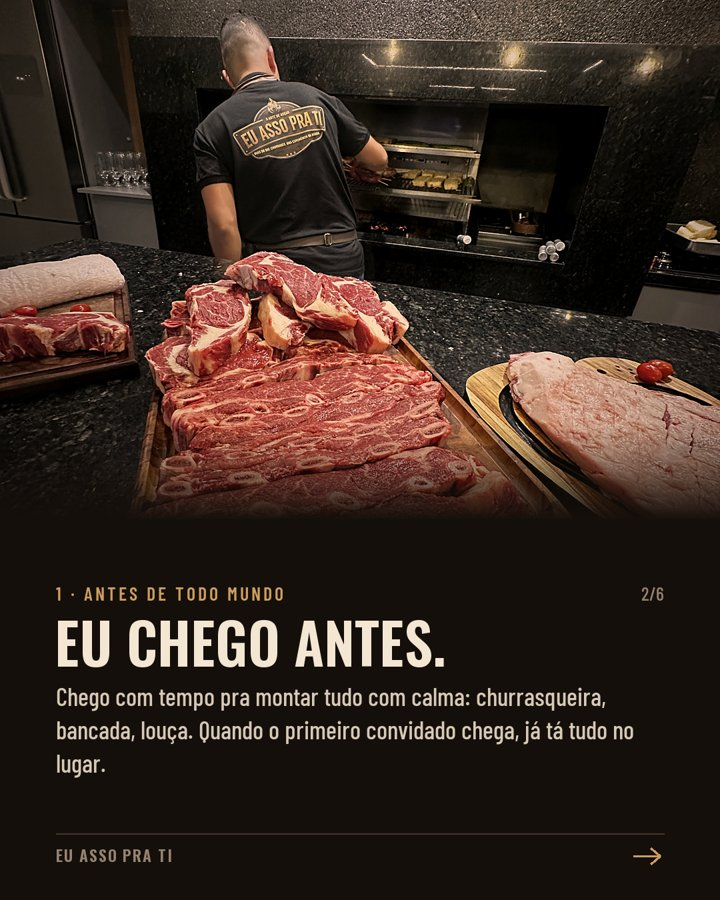
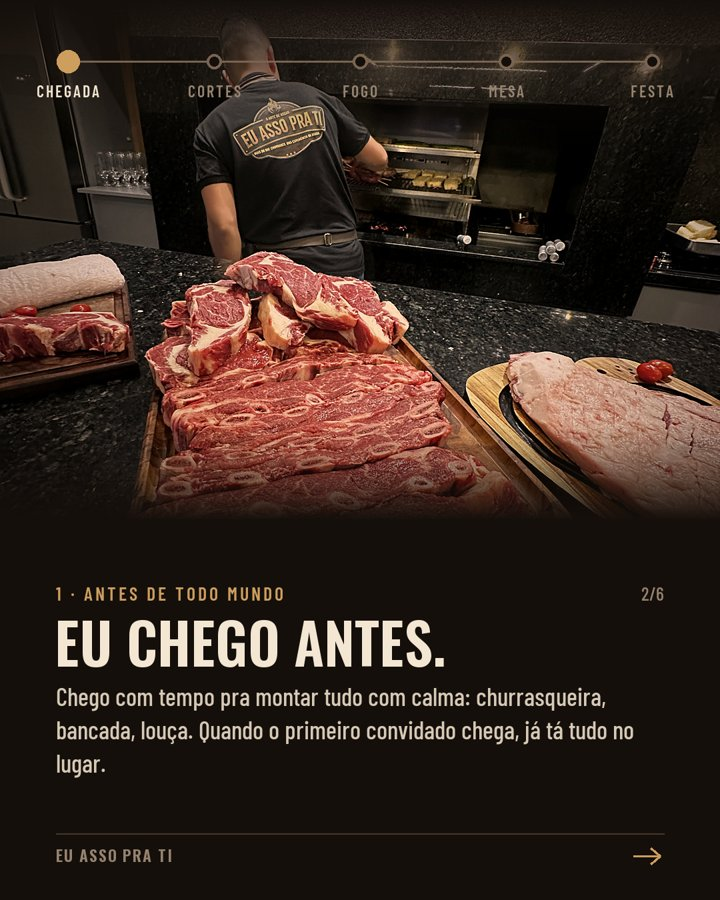
Semana de 3/11: versão com linha do tempo, votação e comentários

Changed region(s): [[0.1833, 0.0, 1.0, 0.1556], [0.0306, 0.0, 0.1528, 0.1244]]

diff --git a/calendario/index.html b/calendario/index.html
@@ -11,7 +11,7 @@
 --display:"Oswald","Arial Narrow",sans-serif;--label:"Barlow Condensed","Arial Narrow",sans-serif;--text:"Barlow",system-ui,sans-serif;color-scheme:dark}
 *{box-sizing:border-box}
 body{margin:0;background:var(--bg);color:var(--body);font:400 1.0625rem/1.6 var(--text)}
-.hero{position:relative;min-height:min(78vh,620px);display:grid;align-items:end;background:#000 url(img/p14-01.jpg?v=1793399169) center 40%/cover}
+.hero{position:relative;min-height:min(78vh,620px);display:grid;align-items:end;background:#000 url(img/p14-01.jpg?v=1793399696) center 40%/cover}
 .hero::after{content:"";position:absolute;inset:0;background:linear-gradient(180deg,rgba(21,15,11,.2) 0%,rgba(21,15,11,.55) 45%,var(--bg) 100%)}
 .hero .in{position:relative;z-index:1;max-width:760px;margin:0 auto;width:100%;padding:0 20px 36px}
 h1,h2{font-family:var(--display);font-weight:600;text-transform:uppercase;color:var(--fg);line-height:1.05;margin:0;text-wrap:balance}
@@ -86,14 +86,14 @@ footer{font:500 .9rem var(--label);color:var(--muted);letter-spacing:.06em;borde
 <section>
   <div class="post-head"><p class="k" style="margin:0">Terça 3/11 · 12h</p><span class="tag">Aguardando pitacos</span></div>
   <h2>Post 13: quem provou, recomenda</h2>
-  <p>Prova social no dia em que os anúncios começam. Os comentários reais da galera: a formatura, o aniversário de 1 ano do último sábado e quem provou o choripan de focaccia. Fecha contigo sorrindo e chamando pro WhatsApp.</p>
+  <p>Prova social no dia em que os anúncios começam. Os comentários reais da galera, no visual do Instagram: a formatura, o aniversário de 1 ano do último sábado e quem provou o choripan de focaccia. Fecha contigo sorrindo e chamando pro WhatsApp.</p>
   <div class="car" aria-label="Imagens do post 13">
-    <img src="img/p13-01.jpg?v=1793399169" alt="Capa: Quem provou, recomenda" loading="lazy">
-    <img src="img/p13-02.jpg?v=1793399169" alt="Formatura" loading="lazy">
-    <img src="img/p13-03.jpg?v=1793399169" alt="Aniversário de 1 ano" loading="lazy">
-    <img src="img/p13-04.jpg?v=1793399169" alt="A queridinha" loading="lazy">
-    <img src="img/p13-05.jpg?v=1793399169" alt="Sem palavras" loading="lazy">
-    <img src="img/p13-06.jpg?v=1793399169" alt="A próxima pode ser a tua" loading="lazy">
+    <img src="img/p13-01.jpg?v=1793399696" alt="Capa: Quem provou, recomenda" loading="lazy">
+    <img src="img/p13-02.jpg?v=1793399696" alt="Formatura" loading="lazy">
+    <img src="img/p13-03.jpg?v=1793399696" alt="Aniversário de 1 ano" loading="lazy">
+    <img src="img/p13-04.jpg?v=1793399696" alt="A queridinha" loading="lazy">
+    <img src="img/p13-05.jpg?v=1793399696" alt="Sem palavras" loading="lazy">
+    <img src="img/p13-06.jpg?v=1793399696" alt="A próxima pode ser a tua" loading="lazy">
   </div>
   <p class="hint">Arrasta para o lado para ver as 6 imagens.</p>
   <details><summary>Ver a legenda</summary><div class="cap">Quem provou, recomenda 🔥
@@ -116,14 +116,14 @@ Tem festa vindo aí? Me chama no WhatsApp pelo link da bio ou no (51) 99565-7817
 <section>
   <div class="post-head"><p class="k" style="margin:0">Quinta 5/11 · 12h</p><span class="tag">Aguardando pitacos</span></div>
   <h2>Post 14: como é o dia da tua festa</h2>
-  <p>O passo a passo do dia: tu chega antes, os cortes separados e temperados, o fogo, a carne servida quentinha na mesa e o cliente só aproveitando. Responde a dúvida de quem nunca contratou: "vai dar trabalho pra mim?".</p>
+  <p>O passo a passo do dia, com uma linha do tempo no topo de cada card: tu chega antes, os cortes separados e temperados, o fogo, a carne servida quentinha na mesa e o cliente só aproveitando. Responde a dúvida de quem nunca contratou: "vai dar trabalho pra mim?".</p>
   <div class="car" aria-label="Imagens do post 14">
-    <img src="img/p14-01.jpg?v=1793399169" alt="Capa: Como é o dia da tua festa" loading="lazy">
-    <img src="img/p14-02.jpg?v=1793399169" alt="Eu chego antes" loading="lazy">
-    <img src="img/p14-03.jpg?v=1793399169" alt="Separados e temperados na hora" loading="lazy">
-    <img src="img/p14-04.jpg?v=1793399169" alt="O fogo no ponto certo" loading="lazy">
-    <img src="img/p14-05.jpg?v=1793399169" alt="Servido quentinho pra galera" loading="lazy">
-    <img src="img/p14-06.jpg?v=1793399169" alt="Tu só aproveita a festa" loading="lazy">
+    <img src="img/p14-01.jpg?v=1793399696" alt="Capa: Como é o dia da tua festa" loading="lazy">
+    <img src="img/p14-02.jpg?v=1793399696" alt="Eu chego antes" loading="lazy">
+    <img src="img/p14-03.jpg?v=1793399696" alt="Separados e temperados na hora" loading="lazy">
+    <img src="img/p14-04.jpg?v=1793399696" alt="O fogo no ponto certo" loading="lazy">
+    <img src="img/p14-05.jpg?v=1793399696" alt="Servido quentinho pra galera" loading="lazy">
+    <img src="img/p14-06.jpg?v=1793399696" alt="Tu só aproveita a festa" loading="lazy">
   </div>
   <p class="hint">Arrasta para o lado para ver as 6 imagens.</p>
   <details><summary>Ver a legenda</summary><div class="cap">Como é o dia da tua festa com o Eu Asso pra Ti? 🔥
@@ -148,24 +148,24 @@ Me chama no WhatsApp pelo link da bio ou no (51) 99565-7817 e me conta como tu i
 <section>
   <div class="post-head"><p class="k" style="margin:0">Sábado 7/11 · 12h</p><span class="tag">Aguardando pitacos</span></div>
   <h2>Post 15: qual corte não pode faltar?</h2>
-  <p>Enquete pra galera comentar, no mesmo formato do post do sal, que foi o que mais deu conversa até agora. Três opções e o convite pra contar qual é o time de cada um.</p>
+  <p>Enquete pra galera comentar, no mesmo formato do post do sal, que foi o que mais deu conversa até agora. Três opções com número gigante, e a galera vota comentando 1, 2 ou 3.</p>
   <div class="car" aria-label="Imagens do post 15">
-    <img src="img/p15-01.jpg?v=1793399169" alt="Capa: Qual corte não pode faltar?" loading="lazy">
-    <img src="img/p15-02.jpg?v=1793399169" alt="Ancho" loading="lazy">
-    <img src="img/p15-03.jpg?v=1793399169" alt="Costela" loading="lazy">
-    <img src="img/p15-04.jpg?v=1793399169" alt="Linguiça" loading="lazy">
-    <img src="img/p15-05.jpg?v=1793399169" alt="Conta nos comentários" loading="lazy">
+    <img src="img/p15-01.jpg?v=1793399696" alt="Capa: Qual corte não pode faltar?" loading="lazy">
+    <img src="img/p15-02.jpg?v=1793399696" alt="Ancho" loading="lazy">
+    <img src="img/p15-03.jpg?v=1793399696" alt="Costela" loading="lazy">
+    <img src="img/p15-04.jpg?v=1793399696" alt="Linguiça" loading="lazy">
+    <img src="img/p15-05.jpg?v=1793399696" alt="Conta nos comentários" loading="lazy">
   </div>
   <p class="hint">Arrasta para o lado para ver as 5 imagens.</p>
   <details><summary>Ver a legenda</summary><div class="cap">Qual corte não pode faltar na tua festa? 🔥
 
-Aqui vai a enquete da galera:
+Vota aqui nos comentários com o número do teu time:
 
-🥩 Ancho, macio e bem marmorizado
-🍖 Costela, soltando do osso
-🌭 Linguiça, a clássica que acaba primeiro
+1⃣ Ancho, macio e bem marmorizado
+2⃣ Costela, soltando do osso
+3⃣ Linguiça, a clássica que acaba primeiro
 
-Ou tem outro que tu não abre mão? Conta nos comentários, quero saber qual é o time da galera! 👇
+Ou tem outro corte que tu não abre mão? Quero ver qual time ganha! 👇
 
 E se a tua festa tá vindo aí, o cardápio a gente monta junto, do teu jeito. Me chama no WhatsApp pelo link da bio ou no (51) 99565-7817.
 

diff --git a/semana/index.html b/semana/index.html
@@ -11,7 +11,7 @@
 --display:"Oswald","Arial Narrow",sans-serif;--label:"Barlow Condensed","Arial Narrow",sans-serif;--text:"Barlow",system-ui,sans-serif;color-scheme:dark}
 *{box-sizing:border-box}
 body{margin:0;background:var(--bg);color:var(--body);font:400 1.0625rem/1.6 var(--text)}
-.hero{position:relative;min-height:min(78vh,620px);display:grid;align-items:end;background:#000 url(img/p5-02.jpg?v=1793399169) center 40%/cover}
+.hero{position:relative;min-height:min(78vh,620px);display:grid;align-items:end;background:#000 url(img/p5-02.jpg?v=1793399696) center 40%/cover}
 .hero::after{content:"";position:absolute;inset:0;background:linear-gradient(180deg,rgba(21,15,11,.2) 0%,rgba(21,15,11,.55) 45%,var(--bg) 100%)}
 .hero .in{position:relative;z-index:1;max-width:760px;margin:0 auto;width:100%;padding:0 20px 36px}
 h1,h2{font-family:var(--display);font-weight:600;text-transform:uppercase;color:var(--fg);line-height:1.05;margin:0;text-wrap:balance}
@@ -81,13 +81,13 @@ footer{font:500 .9rem var(--label);color:var(--muted);letter-spacing:.06em;borde
   <h2>Post 5: gastronomia de fogo</h2>
   <p>Carrossel de 7 imagens: a carne de qualidade, cada uma no seu ponto, os legumes, o fatiado na hora, a sobremesa no fogo e o convite pra conversar.</p>
   <div class="car" aria-label="Imagens do post 5">
-    <img src="img/p5-01.jpg?v=1793399169" alt="Capa: Gastronomia de fogo" loading="lazy">
-    <img src="img/p5-02.jpg?v=1793399169" alt="Carne de qualidade" loading="lazy">
-    <img src="img/p5-03.jpg?v=1793399169" alt="Cada carne no seu ponto" loading="lazy">
-    <img src="img/p5-04.jpg?v=1793399169" alt="Os legumes também vão pro fogo" loading="lazy">
-    <img src="img/p5-05.jpg?v=1793399169" alt="Fatiado na hora" loading="lazy">
-    <img src="img/p5-06.jpg?v=1793399169" alt="E a sobremesa? No fogo, é claro" loading="lazy">
-    <img src="img/p5-07.jpg?v=1793399169" alt="Tem festa vindo aí?" loading="lazy">
+    <img src="img/p5-01.jpg?v=1793399696" alt="Capa: Gastronomia de fogo" loading="lazy">
+    <img src="img/p5-02.jpg?v=1793399696" alt="Carne de qualidade" loading="lazy">
+    <img src="img/p5-03.jpg?v=1793399696" alt="Cada carne no seu ponto" loading="lazy">
+    <img src="img/p5-04.jpg?v=1793399696" alt="Os legumes também vão pro fogo" loading="lazy">
+    <img src="img/p5-05.jpg?v=1793399696" alt="Fatiado na hora" loading="lazy">
+    <img src="img/p5-06.jpg?v=1793399696" alt="E a sobremesa? No fogo, é claro" loading="lazy">
+    <img src="img/p5-07.jpg?v=1793399696" alt="Tem festa vindo aí?" loading="lazy">
   </div>
   <p class="hint">Arrasta para o lado para ver as 7 imagens.</p>
   <details><summary>Ver a legenda</summary><div class="cap">Gastronomia de fogo 🔥 Eu cuido do fogo, tu aproveita a festa.
@@ -114,12 +114,12 @@ Me chama no WhatsApp pelo link da bio ou no (51) 99565-7817 e me conta como tu i
   <h2>Post 6: a tua festa, do teu jeito</h2>
   <p>Aqui não tem cardápio pronto: aniversário em casa, confraternização, casamento e formatura, cada um com o seu jeito. Fecha com "me conta a tua festa".</p>
   <div class="car" aria-label="Imagens do post 6">
-    <img src="img/p6-01.jpg?v=1793399169" alt="Capa: A tua festa, do teu jeito" loading="lazy">
-    <img src="img/p6-02.jpg?v=1793399169" alt="Pra família e os amigos" loading="lazy">
-    <img src="img/p6-03.jpg?v=1793399169" alt="Pra galera da empresa" loading="lazy">
-    <img src="img/p6-04.jpg?v=1793399169" alt="Pro dia que não volta" loading="lazy">
-    <img src="img/p6-05.jpg?v=1793399169" alt="Nada de cardápio pronto" loading="lazy">
-    <img src="img/p6-06.jpg?v=1793399169" alt="Me conta a tua festa" loading="lazy">
+    <img src="img/p6-01.jpg?v=1793399696" alt="Capa: A tua festa, do teu jeito" loading="lazy">
+    <img src="img/p6-02.jpg?v=1793399696" alt="Pra família e os amigos" loading="lazy">
+    <img src="img/p6-03.jpg?v=1793399696" alt="Pra galera da empresa" loading="lazy">
+    <img src="img/p6-04.jpg?v=1793399696" alt="Pro dia que não volta" loading="lazy">
+    <img src="img/p6-05.jpg?v=1793399696" alt="Nada de cardápio pronto" loading="lazy">
+    <img src="img/p6-06.jpg?v=1793399696" alt="Me conta a tua festa" loading="lazy">
   </div>
   <p class="hint">Arrasta para o lado para ver as 6 imagens.</p>
   <details><summary>Ver a legenda</summary><div class="cap">A tua festa, do teu jeito 🔥
@@ -144,7 +144,7 @@ Me chama no WhatsApp pelo link da bio ou no (51) 99565-7817 e me conta a tua fes
 <section>
   <div class="post-head"><p class="k" style="margin:0">Terça 13/10</p><span class="tag done">No ar</span></div>
   <h2>Post 4: o primeiro Reels</h2>
-  <video class="vid" src="video/p4-reels.mp4?v=1793399169" controls playsinline preload="metadata"></video>
+  <video class="vid" src="video/p4-reels.mp4?v=1793399696" controls playsinline preload="metadata"></video>
   <details><summary>Ver a legenda</summary><div class="cap">Quando tu chega, o fogo já tá pronto 🔥
 
 Eu chego bem antes pra preparar tudo: a carne de qualidade separada pra tua festa, o fogo no ponto certinho e tudo saindo da brasa direto pra tábua, servido quentinho pra galera.
